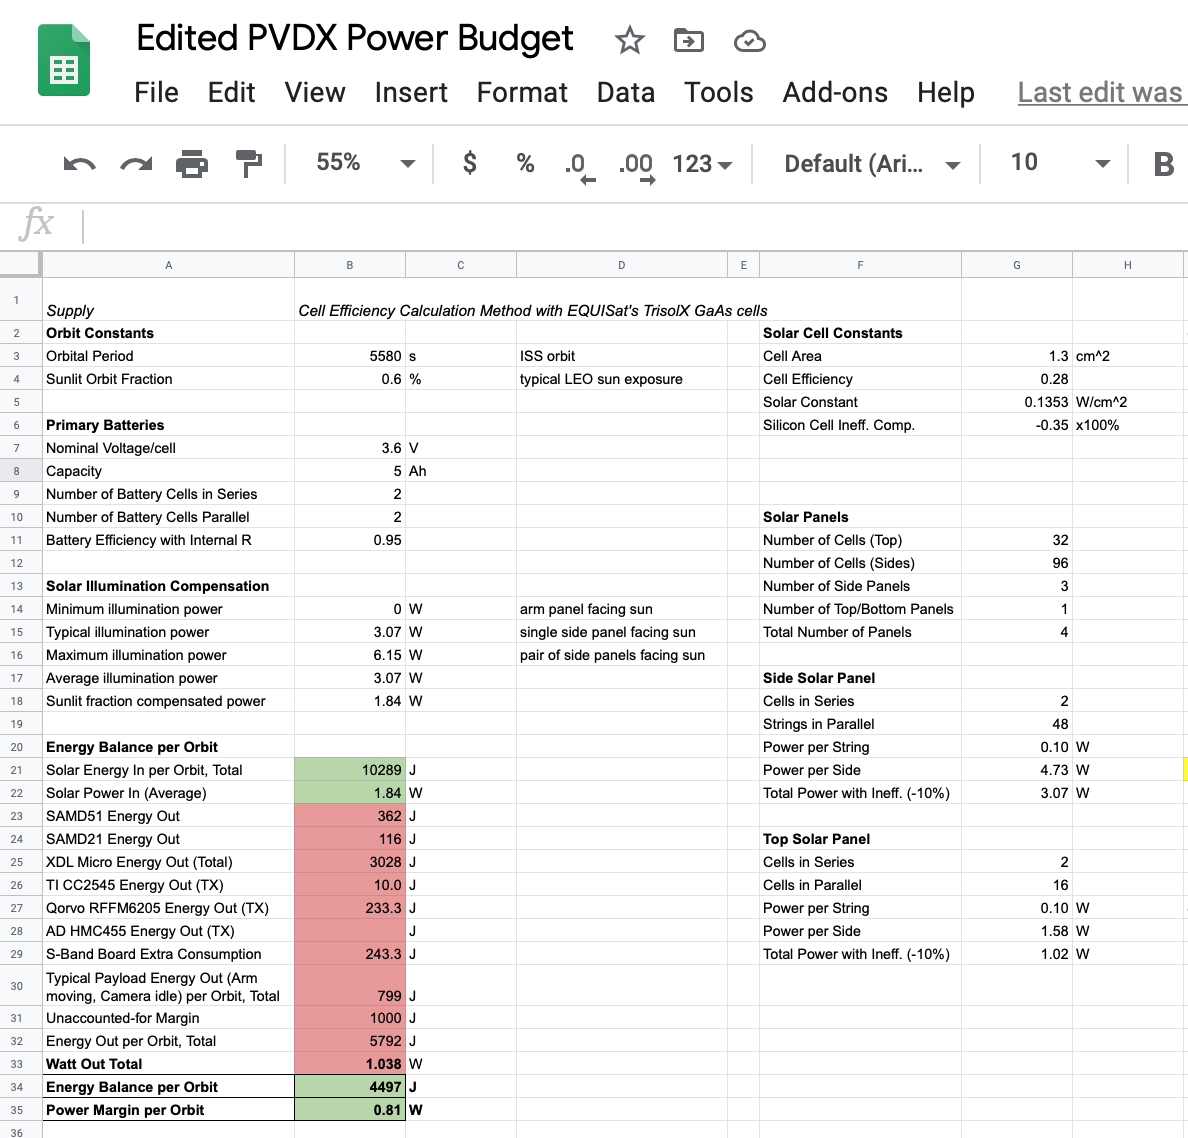
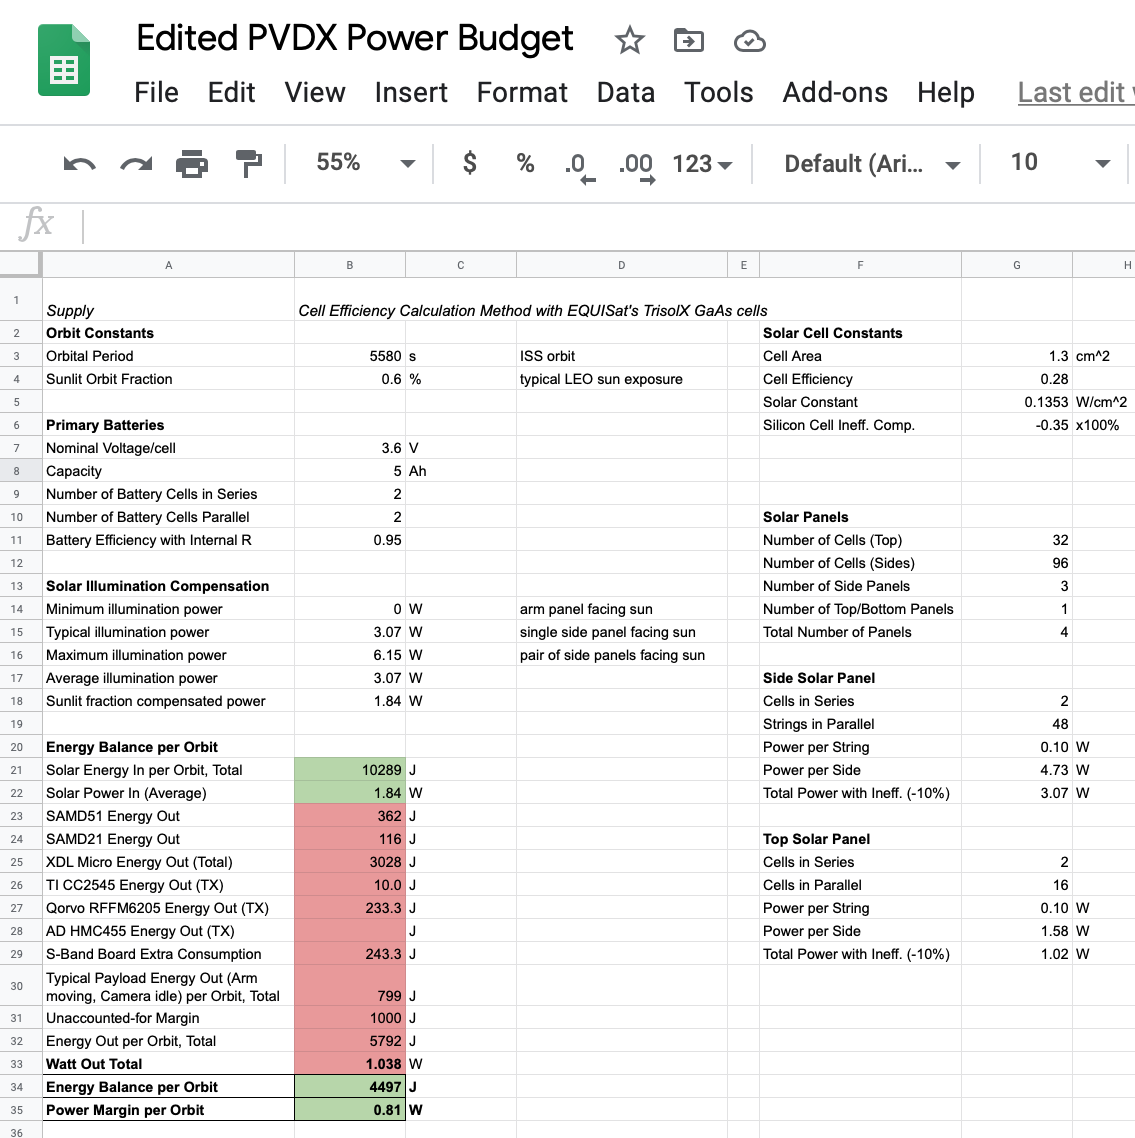
resize pics

diff --git a/index.md b/index.md
@@ -49,8 +49,8 @@ I'm the Avionics Hardware leader of Brown Space Engineering. I...
 
 Design Samples: <br>
 <img src="images/BSEBlockDiagram.jpg?raw=true" style="width:480px;">
-<img src="images/PVDXPowerBudget.png?raw=true" style="width:240px;">
-<img src="images/PVDXRadioAnalysis.png?raw=true" style="width:240px;">
+<img src="images/PVDXPowerBudget.png?raw=true" style="width:200px;">
+<img src="images/PVDXRadioAnalysis.png?raw=true" style="width:390px;">
 
 <a href="https://github.com/BrownSpaceEngineering">GitHub Organization Link</a>
 
